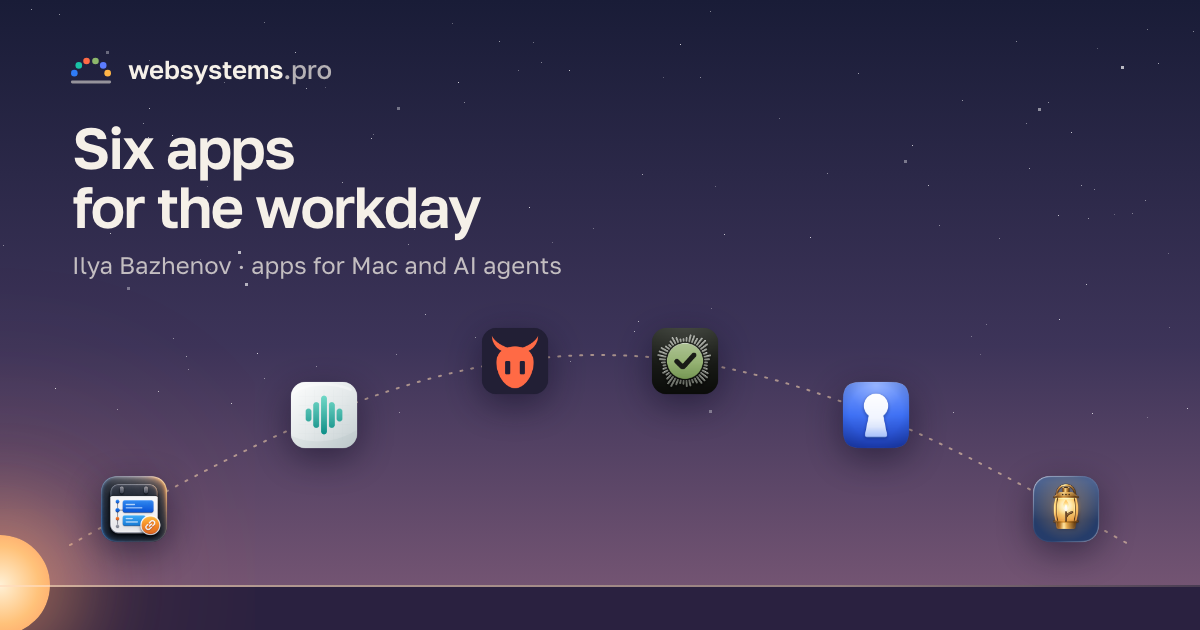
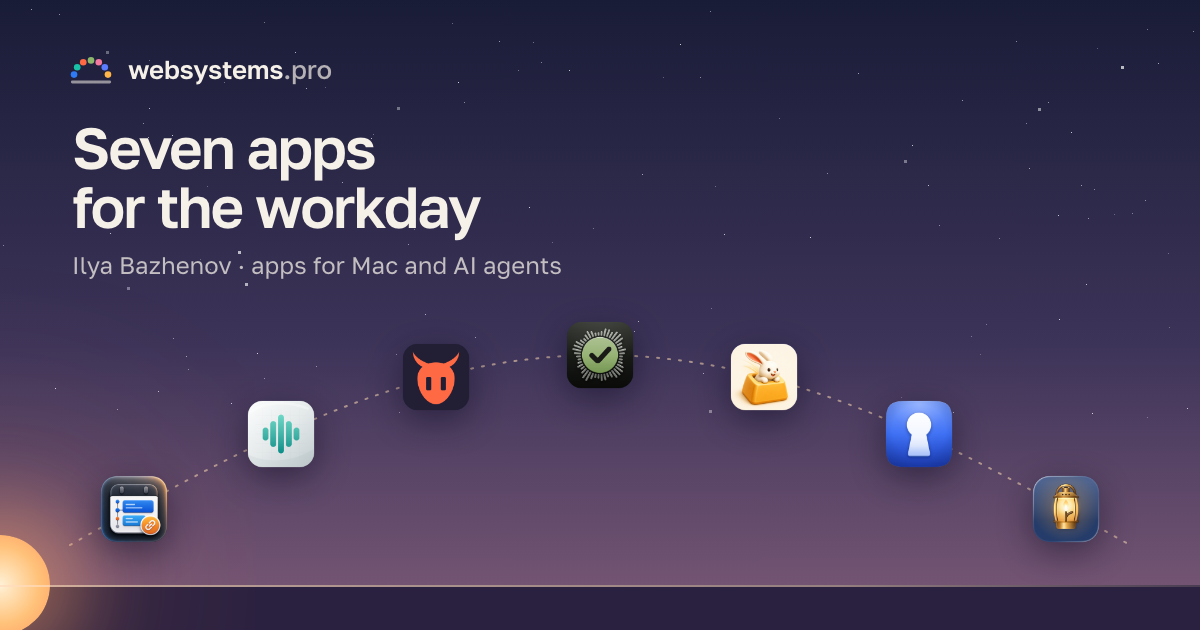
Hopkey — седьмое приложение: глава «15:20», точка на дуге дня и в логотипе
Hopkey встал между Walkship и Seatkey: палитра в строке меню (двойной ⌘ — ключ задачи
по ссылке, сниппеты, мьют). Глава с макетом палитры в духе остальных, Hopkey в «Все
проекты», «Семь приложений» в заголовке и мета-описаниях. Дуга дня на семь иконок,
на телефоне — равный шаг по дуге. Логотип, фавикон, touch-иконка и превью пересобраны
на семь точек и иконок (у Hopkey розовая точка). В блок про агента Hopkey не добавлен:
с ИИ-агентами он не работает.

Changed region(s): [[0.185, 0.5127, 0.8017, 0.754], [0.0925, 0.2111, 0.3083, 0.3016], [0.0617, 0.0905, 0.0925, 0.1206]]

diff --git a/index.html b/index.html
@@ -4,9 +4,9 @@
 <meta charset="utf-8">
 <meta name="viewport" content="width=device-width, initial-scale=1">
 <title>Приложения для рабочего дня — Илья Баженов</title>
-<meta name="description" content="Приложения для Mac и инструменты для работы с ИИ-агентами: OWA Widget, VoiceGrep, ImpAgent, Walkship, Seatkey и Routekeeper.">
+<meta name="description" content="Приложения для Mac и инструменты для работы с ИИ-агентами: OWA Widget, VoiceGrep, ImpAgent, Walkship, Hopkey, Seatkey и Routekeeper.">
 <meta property="og:title" content="Приложения для рабочего дня — Илья Баженов">
-<meta property="og:description" content="Приложения для Mac и инструменты для работы с ИИ-агентами: OWA Widget, VoiceGrep, ImpAgent, Walkship, Seatkey и Routekeeper.">
+<meta property="og:description" content="Приложения для Mac и инструменты для работы с ИИ-агентами: OWA Widget, VoiceGrep, ImpAgent, Walkship, Hopkey, Seatkey и Routekeeper.">
 <meta property="og:type" content="website">
 <meta property="og:url" content="https://websystems.pro/">
 <meta property="og:site_name" content="websystems.pro">
@@ -15,7 +15,7 @@
 <meta property="og:image" content="https://websystems.pro/assets/og.png">
 <meta property="og:image:width" content="1200">
 <meta property="og:image:height" content="630">
-<meta property="og:image:alt" content="Шесть приложений для рабочего дня: иконки OWA Widget, VoiceGrep, ImpAgent, Walkship, Seatkey и Routekeeper на дуге над горизонтом">
+<meta property="og:image:alt" content="Семь приложений для рабочего дня: иконки OWA Widget, VoiceGrep, ImpAgent, Walkship, Hopkey, Seatkey и Routekeeper на дуге над горизонтом">
 <meta name="twitter:card" content="summary_large_image">
 <link rel="canonical" href="https://websystems.pro/">
 <link rel="alternate" hreflang="ru" href="https://websystems.pro/">
@@ -48,12 +48,13 @@
     <a class="logo" href="#top" aria-label="websystems.pro — в начало">
       <svg viewBox="0 0 32 32" fill="none" aria-hidden="true">
         <path class="hz" d="M3 25h26" stroke-width="2" stroke-linecap="round"/>
-        <circle style="--i:0" cx="4.4" cy="18.9" r="2.3" fill="#2f7bf6"/>
-        <circle style="--i:1" cx="7.5" cy="13.5" r="2.3" fill="#19c2a6"/>
-        <circle style="--i:2" cx="12.9" cy="10.4" r="2.3" fill="#ff6a45"/>
-        <circle style="--i:3" cx="19.1" cy="10.4" r="2.3" fill="#8db86b"/>
-        <circle style="--i:4" cx="24.5" cy="13.5" r="2.3" fill="#5b7cff"/>
-        <circle style="--i:5" cx="27.6" cy="18.9" r="2.3" fill="#ffb547"/>
+        <circle style="--i:0" cx="4.2" cy="19.9" r="2.3" fill="#2f7bf6"/>
+        <circle style="--i:1" cx="6.4" cy="14.8" r="2.3" fill="#19c2a6"/>
+        <circle style="--i:2" cx="10.6" cy="11.3" r="2.3" fill="#ff6a45"/>
+        <circle style="--i:3" cx="16.0" cy="10.0" r="2.3" fill="#8db86b"/>
+        <circle style="--i:4" cx="21.4" cy="11.3" r="2.3" fill="#f27aa0"/>
+        <circle style="--i:5" cx="25.6" cy="14.8" r="2.3" fill="#5b7cff"/>
+        <circle style="--i:6" cx="27.8" cy="19.9" r="2.3" fill="#ffb547"/>
       </svg>
     </a>
     <span class="clock" aria-hidden="true">
@@ -74,8 +75,8 @@
   <section class="hero" data-time="07:40" data-sky="#191c37,#7d5a77" data-sky-dark="#141630,#4c3650" data-ink="light" data-stars="0.7" data-phase="утро">
     <div class="wrap">
       <div class="eyebrow">Илья Баженов</div>
-      <h1>Шесть приложений<br>для рабочего дня</h1>
-      <p class="lead">Я делаю приложения для Mac и инструменты для работы с ИИ-агентами. Здесь шесть из них, в том порядке, в каком они пригождаются за день.</p>
+      <h1>Семь приложений<br>для рабочего дня</h1>
+      <p class="lead">Я делаю приложения для Mac и инструменты для работы с ИИ-агентами. Здесь семь из них, в том порядке, в каком они пригождаются за день.</p>
     </div>
     <div class="hero-glow" aria-hidden="true"></div>
     <div class="wrap arc-wrap">
@@ -84,10 +85,11 @@
         <div class="sun" aria-hidden="true"></div>
         <div class="horizon" aria-hidden="true"></div>
         <a class="pt" href="#owawidget" style="--x:8;--y:31"><img src="assets/icons/owawidget.png" alt="OWA Widget"><span class="lbl"><b>OWA Widget</b>09:48</span></a>
-        <a class="pt" href="#voicegrep" style="--x:25;--y:66"><img src="assets/icons/voicegrep.png" alt="VoiceGrep"><span class="lbl"><b>VoiceGrep</b>10:47</span></a>
-        <a class="pt" href="#impagent" style="--x:42;--y:86"><img src="assets/icons/impagent.png" alt="ImpAgent"><span class="lbl"><b>ImpAgent</b>11:30</span></a>
-        <a class="pt" href="#walkship" style="--x:58;--y:86"><img src="assets/icons/walkship.png" alt="Walkship"><span class="lbl"><b>Walkship</b>13:10</span></a>
-        <a class="pt" href="#seatkey" style="--x:75;--y:66"><img src="assets/icons/seatkey.png" alt="Seatkey"><span class="lbl"><b>Seatkey</b>17:20</span></a>
+        <a class="pt" href="#voicegrep" style="--x:22;--y:60"><img src="assets/icons/voicegrep.png" alt="VoiceGrep"><span class="lbl"><b>VoiceGrep</b>10:47</span></a>
+        <a class="pt" href="#impagent" style="--x:36;--y:81"><img src="assets/icons/impagent.png" alt="ImpAgent"><span class="lbl"><b>ImpAgent</b>11:30</span></a>
+        <a class="pt" href="#walkship" style="--x:50;--y:88"><img src="assets/icons/walkship.png" alt="Walkship"><span class="lbl"><b>Walkship</b>13:10</span></a>
+        <a class="pt" href="#hopkey" style="--x:64;--y:81"><img src="assets/icons/hopkey.png" alt="Hopkey"><span class="lbl"><b>Hopkey</b>15:20</span></a>
+        <a class="pt" href="#seatkey" style="--x:78;--y:60"><img src="assets/icons/seatkey.png" alt="Seatkey"><span class="lbl"><b>Seatkey</b>17:20</span></a>
         <a class="pt" href="#routekeeper" style="--x:92;--y:31"><img src="assets/icons/routekeeper.png" alt="Routekeeper"><span class="lbl"><b>Routekeeper</b>21:30</span></a>
       </div>
     </div>
@@ -237,9 +239,42 @@
     </div>
   </section>
 
+  <!-- 15:20 — Hopkey -->
+  <section class="ch" id="hopkey" data-time="15:20" data-sky="#f2e8d2,#f8f2e5" data-sky-dark="#1e1a13,#241f17" data-ink="dark" data-phase="день" style="--accent:#c97c00">
+    <div class="wrap ch-grid">
+      <div class="ch-text rv">
+        <div class="ch-time">15:20</div>
+        <div class="ch-app">
+          <img src="assets/icons/hopkey.png" alt="" width="52" height="52">
+          <div><b>Hopkey</b><span>macOS 13+ · бесплатно · open source</span></div>
+        </div>
+        <h2>Двойной ⌘ — и&nbsp;всё мелкое уже под рукой.</h2>
+        <p class="story">Палитра в строке меню: двойной правый ⌘ и одна буква. Номер задачи из чата открывается ссылкой — Jira, GitHub, GitLab или свой шаблон. Ссылка на комнату или шаблонный ответ вставляются цифрой, а микрофон выключается для всей системы перед звонком. Всё локально, без аккаунта, и в русской раскладке тоже.</p>
+        <div class="ch-links">
+          <a class="go" href="https://ilyabazhenov.github.io/Hopkey/" target="_blank">Сайт проекта <svg viewBox="0 0 16 16" fill="none" stroke="currentColor" stroke-width="1.8"><path d="M5 11l6-6M6 5h5v5"/></svg></a>
+          <a class="sub" href="https://github.com/ilyabazhenov/Hopkey/releases/latest" target="_blank">Скачать</a>
+        </div>
+      </div>
+      <div class="ch-visual rv">
+        <div class="v hk" aria-hidden="true">
+          <div class="hk-msg"><span class="hk-av">А</span><p><b>Аня</b>Глянь <span class="key">PROJ-4821</span>, там опять падает оплата</p></div>
+          <div class="hk-pal step" style="--d:.15s">
+            <div class="hk-q"><kbd>⌘</kbd><kbd>⌘</kbd><span>Поиск: приложения, команды, калькулятор…</span></div>
+            <div class="hk-sec">Переключатели</div>
+            <div class="hk-tiles"><span class="mute">Микрофон<small>выкл</small><kbd>M</kbd></span><span>Звук<small>AirPods · 62%</small><kbd>A</kbd></span><span>Не спать<small>выкл</small><kbd>K</kbd></span></div>
+            <div class="hk-sec">Ключи и сниппеты</div>
+            <div class="hk-row"><span>Открыть ссылку по ключу</span><kbd>Q</kbd></div>
+            <div class="hk-chips"><span><i style="--c:#13968a">1</i>Комната созвона</span><span><i style="--c:#7b61d9">2</i>«Посмотрю после обеда»</span></div>
+          </div>
+          <div class="hk-note step" style="--d:.55s"><img src="assets/icons/hopkey.png" alt=""><span><b>PROJ-4821 <em>сейчас</em></b>Нажмите, чтобы открыть ссылку</span></div>
+        </div>
+      </div>
+    </div>
+  </section>
+
   <!-- 17:20 — Seatkey -->
   <section class="ch" id="seatkey" data-time="17:20" data-sky="#f3d9b4,#eec393" data-sky-dark="#291e14,#32241a" data-ink="dark" data-phase="вечер" style="--accent:#3550d8">
-    <div class="wrap ch-grid">
+    <div class="wrap ch-grid flip">
       <div class="ch-text rv">
         <div class="ch-time">17:20</div>
         <div class="ch-app">
@@ -287,7 +322,7 @@
 
   <!-- 21:30 — Routekeeper -->
   <section class="ch" id="routekeeper" data-time="21:30" data-sky="#121834,#0a0f1f" data-ink="light" data-stars="0.85" data-phase="ночь" style="--accent:#ffb547">
-    <div class="wrap ch-grid flip">
+    <div class="wrap ch-grid">
       <div class="ch-text rv">
         <div class="ch-time">21:30</div>
         <div class="ch-app">
@@ -380,6 +415,7 @@
           <a href="https://voicegrep.com/" target="_blank"><img src="assets/icons/voicegrep.png" alt=""><span><b>VoiceGrep</b><span>расшифровка звонков на Mac</span></span></a>
           <a href="https://ilyabazhenov.github.io/imp-agent-crossplatform-releases/" target="_blank"><img src="assets/icons/impagent.png" alt=""><span><b>ImpAgent</b><span>агент для рабочих задач</span></span></a>
           <a href="https://walkship.app/ru/" target="_blank"><img src="assets/icons/walkship.png" alt=""><span><b>Walkship</b><span>голосовой партнёр для кода</span></span></a>
+          <a href="https://ilyabazhenov.github.io/Hopkey/" target="_blank"><img src="assets/icons/hopkey.png" alt=""><span><b>Hopkey</b><span>палитра в строке меню</span></span></a>
           <a href="https://seatkey.dev/" target="_blank"><img src="assets/icons/seatkey.png" alt=""><span><b>Seatkey</b><span>подписка как OpenAI API</span></span></a>
           <a href="https://getroutekeeper.app/" target="_blank"><img src="assets/icons/routekeeper.png" alt=""><span><b>Routekeeper</b><span>маршруты для приложений</span></span></a>
         </nav>

diff --git a/en/index.html b/en/index.html
@@ -4,9 +4,9 @@
 <meta charset="utf-8">
 <meta name="viewport" content="width=device-width, initial-scale=1">
 <title>Apps for the workday — Ilya Bazhenov</title>
-<meta name="description" content="Mac apps and tools for working with AI agents: OWA Widget, VoiceGrep, ImpAgent, Walkship, Seatkey and Routekeeper.">
+<meta name="description" content="Mac apps and tools for working with AI agents: OWA Widget, VoiceGrep, ImpAgent, Walkship, Hopkey, Seatkey and Routekeeper.">
 <meta property="og:title" content="Apps for the workday — Ilya Bazhenov">
-<meta property="og:description" content="Mac apps and tools for working with AI agents: OWA Widget, VoiceGrep, ImpAgent, Walkship, Seatkey and Routekeeper.">
+<meta property="og:description" content="Mac apps and tools for working with AI agents: OWA Widget, VoiceGrep, ImpAgent, Walkship, Hopkey, Seatkey and Routekeeper.">
 <meta property="og:type" content="website">
 <meta property="og:url" content="https://websystems.pro/en/">
 <meta property="og:site_name" content="websystems.pro">
@@ -15,7 +15,7 @@
 <meta property="og:image" content="https://websystems.pro/assets/og-en.png">
 <meta property="og:image:width" content="1200">
 <meta property="og:image:height" content="630">
-<meta property="og:image:alt" content="Six apps for the workday: OWA Widget, VoiceGrep, ImpAgent, Walkship, Seatkey and Routekeeper icons on an arc above the horizon">
+<meta property="og:image:alt" content="Seven apps for the workday: OWA Widget, VoiceGrep, ImpAgent, Walkship, Hopkey, Seatkey and Routekeeper icons on an arc above the horizon">
 <meta name="twitter:card" content="summary_large_image">
 <link rel="canonical" href="https://websystems.pro/en/">
 <link rel="alternate" hreflang="ru" href="https://websystems.pro/">
@@ -48,12 +48,13 @@
     <a class="logo" href="#top" aria-label="websystems.pro — back to top">
       <svg viewBox="0 0 32 32" fill="none" aria-hidden="true">
         <path class="hz" d="M3 25h26" stroke-width="2" stroke-linecap="round"/>
-        <circle style="--i:0" cx="4.4" cy="18.9" r="2.3" fill="#2f7bf6"/>
-        <circle style="--i:1" cx="7.5" cy="13.5" r="2.3" fill="#19c2a6"/>
-        <circle style="--i:2" cx="12.9" cy="10.4" r="2.3" fill="#ff6a45"/>
-        <circle style="--i:3" cx="19.1" cy="10.4" r="2.3" fill="#8db86b"/>
-        <circle style="--i:4" cx="24.5" cy="13.5" r="2.3" fill="#5b7cff"/>
-        <circle style="--i:5" cx="27.6" cy="18.9" r="2.3" fill="#ffb547"/>
+        <circle style="--i:0" cx="4.2" cy="19.9" r="2.3" fill="#2f7bf6"/>
+        <circle style="--i:1" cx="6.4" cy="14.8" r="2.3" fill="#19c2a6"/>
+        <circle style="--i:2" cx="10.6" cy="11.3" r="2.3" fill="#ff6a45"/>
+        <circle style="--i:3" cx="16.0" cy="10.0" r="2.3" fill="#8db86b"/>
+        <circle style="--i:4" cx="21.4" cy="11.3" r="2.3" fill="#f27aa0"/>
+        <circle style="--i:5" cx="25.6" cy="14.8" r="2.3" fill="#5b7cff"/>
+        <circle style="--i:6" cx="27.8" cy="19.9" r="2.3" fill="#ffb547"/>
       </svg>
     </a>
     <span class="clock" aria-hidden="true">
@@ -74,8 +75,8 @@
   <section class="hero" data-time="07:40" data-sky="#191c37,#7d5a77" data-sky-dark="#141630,#4c3650" data-ink="light" data-stars="0.7" data-phase="morning">
     <div class="wrap">
       <div class="eyebrow">Ilya Bazhenov</div>
-      <h1>Six apps<br>for the workday</h1>
-      <p class="lead">I make Mac apps and tools for working with AI agents. Here are six of them, in the order they come in handy during the day.</p>
+      <h1>Seven apps<br>for the workday</h1>
+      <p class="lead">I make Mac apps and tools for working with AI agents. Here are seven of them, in the order they come in handy during the day.</p>
     </div>
     <div class="hero-glow" aria-hidden="true"></div>
     <div class="wrap arc-wrap">
@@ -84,10 +85,11 @@
         <div class="sun" aria-hidden="true"></div>
         <div class="horizon" aria-hidden="true"></div>
         <a class="pt" href="#owawidget" style="--x:8;--y:31"><img src="../assets/icons/owawidget.png" alt="OWA Widget"><span class="lbl"><b>OWA Widget</b>09:48</span></a>
-        <a class="pt" href="#voicegrep" style="--x:25;--y:66"><img src="../assets/icons/voicegrep.png" alt="VoiceGrep"><span class="lbl"><b>VoiceGrep</b>10:47</span></a>
-        <a class="pt" href="#impagent" style="--x:42;--y:86"><img src="../assets/icons/impagent.png" alt="ImpAgent"><span class="lbl"><b>ImpAgent</b>11:30</span></a>
-        <a class="pt" href="#walkship" style="--x:58;--y:86"><img src="../assets/icons/walkship.png" alt="Walkship"><span class="lbl"><b>Walkship</b>13:10</span></a>
-        <a class="pt" href="#seatkey" style="--x:75;--y:66"><img src="../assets/icons/seatkey.png" alt="Seatkey"><span class="lbl"><b>Seatkey</b>17:20</span></a>
+        <a class="pt" href="#voicegrep" style="--x:22;--y:60"><img src="../assets/icons/voicegrep.png" alt="VoiceGrep"><span class="lbl"><b>VoiceGrep</b>10:47</span></a>
+        <a class="pt" href="#impagent" style="--x:36;--y:81"><img src="../assets/icons/impagent.png" alt="ImpAgent"><span class="lbl"><b>ImpAgent</b>11:30</span></a>
+        <a class="pt" href="#walkship" style="--x:50;--y:88"><img src="../assets/icons/walkship.png" alt="Walkship"><span class="lbl"><b>Walkship</b>13:10</span></a>
+        <a class="pt" href="#hopkey" style="--x:64;--y:81"><img src="../assets/icons/hopkey.png" alt="Hopkey"><span class="lbl"><b>Hopkey</b>15:20</span></a>
+        <a class="pt" href="#seatkey" style="--x:78;--y:60"><img src="../assets/icons/seatkey.png" alt="Seatkey"><span class="lbl"><b>Seatkey</b>17:20</span></a>
         <a class="pt" href="#routekeeper" style="--x:92;--y:31"><img src="../assets/icons/routekeeper.png" alt="Routekeeper"><span class="lbl"><b>Routekeeper</b>21:30</span></a>
       </div>
     </div>
@@ -237,9 +239,42 @@
     </div>
   </section>
 
+  <!-- 15:20 — Hopkey -->
+  <section class="ch" id="hopkey" data-time="15:20" data-sky="#f2e8d2,#f8f2e5" data-sky-dark="#1e1a13,#241f17" data-ink="dark" data-phase="afternoon" style="--accent:#c97c00">
+    <div class="wrap ch-grid">
+      <div class="ch-text rv">
+        <div class="ch-time">15:20</div>
+        <div class="ch-app">
+          <img src="../assets/icons/hopkey.png" alt="" width="52" height="52">
+          <div><b>Hopkey</b><span>macOS 13+ · free · open source</span></div>
+        </div>
+        <h2>Double-tap ⌘. The small stuff, at&nbsp;hand.</h2>
+        <p class="story">A palette in the menu bar: double-tap the right ⌘ and press one letter. An issue number from chat opens as a link, whether it’s Jira, GitHub, GitLab or your own pattern. A meeting link or a canned reply goes in with a digit, and the mic mutes system-wide before a call. Everything stays local, with no account, and it works in any keyboard layout.</p>
+        <div class="ch-links">
+          <a class="go" href="https://ilyabazhenov.github.io/Hopkey/en/" target="_blank">Project site <svg viewBox="0 0 16 16" fill="none" stroke="currentColor" stroke-width="1.8"><path d="M5 11l6-6M6 5h5v5"/></svg></a>
+          <a class="sub" href="https://github.com/ilyabazhenov/Hopkey/releases/latest" target="_blank">Download</a>
+        </div>
+      </div>
+      <div class="ch-visual rv">
+        <div class="v hk" aria-hidden="true">
+          <div class="hk-msg"><span class="hk-av">A</span><p><b>Anna</b>Can you check <span class="key">PROJ-4821</span>? Payments are failing again</p></div>
+          <div class="hk-pal step" style="--d:.15s">
+            <div class="hk-q"><kbd>⌘</kbd><kbd>⌘</kbd><span>Search apps, commands, calculator…</span></div>
+            <div class="hk-sec">Toggles</div>
+            <div class="hk-tiles"><span class="mute">Microphone<small>off</small><kbd>M</kbd></span><span>Sound<small>AirPods · 62%</small><kbd>A</kbd></span><span>Keep awake<small>off</small><kbd>K</kbd></span></div>
+            <div class="hk-sec">Keys and snippets</div>
+            <div class="hk-row"><span>Open link by key</span><kbd>Q</kbd></div>
+            <div class="hk-chips"><span><i style="--c:#13968a">1</i>Meeting room</span><span><i style="--c:#7b61d9">2</i>“After lunch”</span></div>
+          </div>
+          <div class="hk-note step" style="--d:.55s"><img src="../assets/icons/hopkey.png" alt=""><span><b>PROJ-4821 <em>now</em></b>Click to open the link</span></div>
+        </div>
+      </div>
+    </div>
+  </section>
+
   <!-- 17:20 — Seatkey -->
   <section class="ch" id="seatkey" data-time="17:20" data-sky="#f3d9b4,#eec393" data-sky-dark="#291e14,#32241a" data-ink="dark" data-phase="evening" style="--accent:#3550d8">
-    <div class="wrap ch-grid">
+    <div class="wrap ch-grid flip">
       <div class="ch-text rv">
         <div class="ch-time">17:20</div>
         <div class="ch-app">
@@ -287,7 +322,7 @@
 
   <!-- 21:30 — Routekeeper -->
   <section class="ch" id="routekeeper" data-time="21:30" data-sky="#121834,#0a0f1f" data-ink="light" data-stars="0.85" data-phase="night" style="--accent:#ffb547">
-    <div class="wrap ch-grid flip">
+    <div class="wrap ch-grid">
       <div class="ch-text rv">
         <div class="ch-time">21:30</div>
         <div class="ch-app">
@@ -380,6 +415,7 @@
           <a href="https://voicegrep.com/en/" target="_blank"><img src="../assets/icons/voicegrep.png" alt=""><span><b>VoiceGrep</b><span>call transcripts on your Mac</span></span></a>
           <a href="https://ilyabazhenov.github.io/imp-agent-crossplatform-releases/" target="_blank" hreflang="ru"><img src="../assets/icons/impagent.png" alt=""><span><b>ImpAgent</b><span>an agent for work tasks</span></span></a>
           <a href="https://walkship.app/" target="_blank"><img src="../assets/icons/walkship.png" alt=""><span><b>Walkship</b><span>a voice partner for code</span></span></a>
+          <a href="https://ilyabazhenov.github.io/Hopkey/en/" target="_blank"><img src="../assets/icons/hopkey.png" alt=""><span><b>Hopkey</b><span>a menu bar palette for the workday</span></span></a>
           <a href="https://seatkey.dev/" target="_blank" hreflang="ru"><img src="../assets/icons/seatkey.png" alt=""><span><b>Seatkey</b><span>your subscription as an OpenAI API</span></span></a>
           <a href="https://getroutekeeper.app/en/" target="_blank"><img src="../assets/icons/routekeeper.png" alt=""><span><b>Routekeeper</b><span>a route for every app</span></span></a>
         </nav>

diff --git a/assets/site.css b/assets/site.css
@@ -296,6 +296,33 @@ h1 {
 .seat-term .o { color: #9db3ff; }
 .seat-term .d { color: #7d8290; }
 
+/* ----- Hopkey ----- */
+.hk { background: #fbf7ef; color: #1e1a14; padding: 18px; display: grid; gap: 12px; }
+.hk kbd { font: 500 11px var(--mono); padding: 2px 6px; border-radius: 6px; background: #fffaf0; border: 1px solid rgba(30, 26, 20, 0.16); border-bottom-width: 2px; color: #4a443a; }
+.hk-msg { display: grid; grid-template-columns: 30px 1fr; gap: 10px; align-items: start; padding: 12px 14px; border-radius: 14px; background: #fff; box-shadow: 0 0 0 1px rgba(30, 26, 20, 0.08); }
+.hk-av { width: 30px; height: 30px; border-radius: 9px; display: grid; place-items: center; font-weight: 600; font-size: 13px; color: #fff; background: #7b61d9; }
+.hk-msg p { margin: 0; }
+.hk-msg b { display: block; font-size: 13px; }
+.hk .key { font: 500 12.5px var(--mono); padding: 1px 5px; border-radius: 5px; background: rgba(245, 166, 35, 0.2); color: #9a5b00; }
+.hk-pal { padding: 10px; border-radius: 16px; background: rgba(255, 255, 255, 0.94); box-shadow: 0 24px 50px -22px rgba(70, 48, 10, 0.45), 0 0 0 1px rgba(30, 26, 20, 0.1); }
+.hk-q { display: flex; align-items: center; gap: 6px; padding: 2px 4px 10px; border-bottom: 1px solid rgba(30, 26, 20, 0.08); color: #9a9182; font-size: 13px; }
+.hk-q span { margin-left: 4px; overflow: hidden; text-overflow: ellipsis; white-space: nowrap; }
+.hk-sec { padding: 10px 4px 5px; font-size: 10.5px; font-weight: 600; letter-spacing: 0.05em; text-transform: uppercase; color: #9a9182; }
+.hk-tiles { display: grid; grid-template-columns: repeat(3, minmax(0, 1fr)); gap: 6px; }
+.hk-tiles span { position: relative; padding: 8px 9px; border-radius: 11px; border: 1px solid rgba(30, 26, 20, 0.1); font-size: 13px; font-weight: 500; white-space: nowrap; overflow: hidden; text-overflow: ellipsis; }
+.hk-tiles small { display: block; font-size: 11.5px; font-weight: 400; color: #9a9182; }
+.hk-tiles kbd { position: absolute; right: 6px; top: 6px; font-size: 9.5px; padding: 1px 4px; }
+.hk-tiles .mute { background: rgba(229, 72, 77, 0.1); border-color: rgba(229, 72, 77, 0.4); }
+.hk-tiles .mute small { color: #d8434a; }
+.hk-row { display: flex; align-items: center; justify-content: space-between; gap: 10px; padding: 7px 8px; border-radius: 10px; font-size: 13.5px; background: rgba(245, 166, 35, 0.24); }
+.hk-chips { display: flex; flex-wrap: wrap; gap: 6px; padding: 6px 2px 2px; }
+.hk-chips span { display: inline-flex; align-items: center; gap: 7px; padding: 4px 10px 4px 4px; border-radius: 9px; border: 1px solid rgba(30, 26, 20, 0.1); font-size: 12.5px; }
+.hk-chips i { width: 20px; font: 600 11px/20px var(--mono); font-style: normal; text-align: center; border-radius: 6px; color: #fff; background: var(--c); }
+.hk-note { display: grid; grid-template-columns: 34px 1fr; gap: 10px; align-items: center; padding: 10px 12px; border-radius: 14px; background: #fff; box-shadow: 0 14px 30px -16px rgba(70, 48, 10, 0.4), 0 0 0 1px rgba(30, 26, 20, 0.08); font-size: 13px; }
+.hk-note img { width: 34px; height: 34px; }
+.hk-note b { display: flex; justify-content: space-between; font-size: 13.5px; }
+.hk-note em { font: 400 11px var(--sans); font-style: normal; color: #9a9182; }
+
 /* ----- Routekeeper ----- */
 .rk { background: #0f1530; color: #f3ecdf; box-shadow: 0 40px 90px -30px rgba(0, 0, 0, 0.7), 0 0 0 1px rgba(255, 181, 71, 0.16), 0 0 120px -20px rgba(255, 181, 71, 0.25); }
 .rk-top { display: flex; align-items: center; gap: 10px; padding: 15px 18px; border-bottom: 1px solid rgba(255, 255, 255, 0.07); }
@@ -463,6 +490,17 @@ footer .wrap { display: flex; justify-content: space-between; gap: 16px; flex-wr
 :root[data-theme="dark"] .seat-map .small { fill: #a39886; }
 :root[data-theme="dark"] .seat-term { background: #121317; box-shadow: 0 0 0 1px rgba(255, 255, 255, 0.06); }
 
+:root[data-theme="dark"] .hk { background: #1f1b15; color: #f1ebe0; box-shadow: 0 40px 80px -40px rgba(0, 0, 0, 0.7), 0 0 0 1px rgba(255, 255, 255, 0.07); }
+:root[data-theme="dark"] :is(.hk-msg, .hk-note) { background: #2a251d; box-shadow: 0 0 0 1px rgba(255, 245, 225, 0.08); }
+:root[data-theme="dark"] .hk-pal { background: #29241c; box-shadow: 0 24px 50px -22px rgba(0, 0, 0, 0.7), 0 0 0 1px rgba(255, 245, 225, 0.1); }
+:root[data-theme="dark"] :is(.hk-q, .hk-sec, .hk-tiles small, .hk-note em) { color: #a39886; }
+:root[data-theme="dark"] .hk-q { border-bottom-color: rgba(255, 245, 225, 0.08); }
+:root[data-theme="dark"] :is(.hk-tiles span, .hk-chips span) { border-color: rgba(255, 245, 225, 0.12); }
+:root[data-theme="dark"] .hk kbd { background: #332d24; border-color: rgba(255, 245, 225, 0.16); color: #e8e0d2; }
+:root[data-theme="dark"] .hk .key { color: #ffc46b; background: rgba(255, 181, 71, 0.16); }
+:root[data-theme="dark"] .hk-row { background: rgba(255, 181, 71, 0.18); }
+:root[data-theme="dark"] .hk-tiles .mute small { color: #ff7f84; }
+
 /* ---------- responsive ---------- */
 @media (max-width: 1020px) {
   .ch-grid { grid-template-columns: minmax(0, 1fr); gap: 48px; }
@@ -486,19 +524,21 @@ footer .wrap { display: flex; justify-content: space-between; gap: 16px; flex-wr
   /* иконки с равным шагом по длине дуги, подписи внутри купола, у верхних — над иконкой */
   .pt { left: calc(var(--mx) * 1%); bottom: calc(var(--my) * 1%); }
   .pt:nth-of-type(1) { --mx: 7.4; --my: 29.5; }
-  .pt:nth-of-type(2) { --mx: 20.1; --my: 57; }
-  .pt:nth-of-type(3) { --mx: 36.9; --my: 81.7; }
-  .pt:nth-of-type(4) { --mx: 63.1; --my: 81.7; }
-  .pt:nth-of-type(5) { --mx: 79.9; --my: 57; }
-  .pt:nth-of-type(6) { --mx: 92.6; --my: 29.5; }
-  .pt img { width: 50px; height: 50px; }
+  .pt:nth-of-type(2) { --mx: 17.8; --my: 52.4; }
+  .pt:nth-of-type(3) { --mx: 30.4; --my: 74.1; }
+  .pt:nth-of-type(4) { --mx: 50; --my: 88; }
+  .pt:nth-of-type(5) { --mx: 69.6; --my: 74.1; }
+  .pt:nth-of-type(6) { --mx: 82.2; --my: 52.4; }
+  .pt:nth-of-type(7) { --mx: 92.6; --my: 29.5; }
+  .pt img { width: 46px; height: 46px; }
   .pt .lbl { position: absolute; top: 50%; margin: 0; font-size: 11.5px; line-height: 1.35; }
   .pt:nth-of-type(-n+2) .lbl { left: 100%; padding-left: 10px; transform: translateY(-50%); text-align: left; }
-  .pt:nth-of-type(n+5) .lbl { right: 100%; padding-right: 10px; transform: translateY(-50%); text-align: right; }
-  /* к вершине дуга поднимается выше иконок, поэтому подписи сдвинуты наружу */
-  .pt:nth-of-type(3) .lbl, .pt:nth-of-type(4) .lbl { top: auto; bottom: 100%; padding-bottom: 8px; }
+  .pt:nth-of-type(n+6) .lbl { right: 100%; padding-right: 10px; transform: translateY(-50%); text-align: right; }
+  /* к вершине дуга поднимается выше иконок, поэтому подписи над иконками: крайние сдвинуты наружу */
+  .pt:nth-of-type(n+3):nth-of-type(-n+5) .lbl { top: auto; bottom: 100%; padding-bottom: 8px; }
   .pt:nth-of-type(3) .lbl { right: 0; text-align: right; }
-  .pt:nth-of-type(4) .lbl { left: 0; text-align: left; }
+  .pt:nth-of-type(4) .lbl { left: 50%; transform: translateX(-50%); text-align: center; }
+  .pt:nth-of-type(5) .lbl { left: 0; text-align: left; }
   .sun { width: 70px; height: 70px; left: -24px; bottom: -35px; }
   .ch { padding: 96px 0 72px; min-height: auto; }
   .ln { grid-template-columns: 1fr; }
@@ -512,13 +552,11 @@ footer .wrap { display: flex; justify-content: space-between; gap: 16px; flex-wr
 }
 @media (max-width: 359px) {
   /* средние подписи иначе сходятся в центре купола */
-  .pt:nth-of-type(2) { --mx: 17; --my: 50.7; }
-  .pt:nth-of-type(5) { --mx: 83; --my: 50.7; }
-  .pt img { width: 44px; height: 44px; }
+  .pt img { width: 40px; height: 40px; }
   .pt .lbl { font-size: 10.5px; }
   .pt .lbl b { font-size: 12px; }
   .pt:nth-of-type(-n+2) .lbl { padding-left: 8px; }
-  .pt:nth-of-type(n+5) .lbl { padding-right: 8px; }
+  .pt:nth-of-type(n+6) .lbl { padding-right: 8px; }
   /* в попапе OWA кнопки переносятся под текст, иначе обрезаются */
   .owa-body { padding: 12px; }
   .owa-pop { padding: 10px; }

diff --git a/brand/og.html b/brand/og.html
@@ -33,16 +33,16 @@
   <div class="ground"></div>
   <div class="sun"></div>
   <div class="hz"></div>
-  <img src="../assets/icons/owawidget.png" style="left:96px;top:471px"><img src="../assets/icons/voicegrep.png" style="left:286px;top:377px"><img src="../assets/icons/impagent.png" style="left:477px;top:323px"><img src="../assets/icons/walkship.png" style="left:647px;top:323px"><img src="../assets/icons/seatkey.png" style="left:838px;top:377px"><img src="../assets/icons/routekeeper.png" style="left:1028px;top:471px">
+  <img src="../assets/icons/owawidget.png" style="left:96px;top:471px"><img src="../assets/icons/voicegrep.png" style="left:243px;top:396px"><img src="../assets/icons/impagent.png" style="left:398px;top:339px"><img src="../assets/icons/walkship.png" style="left:562px;top:317px"><img src="../assets/icons/hopkey.png" style="left:726px;top:339px"><img src="../assets/icons/seatkey.png" style="left:881px;top:396px"><img src="../assets/icons/routekeeper.png" style="left:1028px;top:471px">
   <div class="head">
-    <div class="brand"><svg viewBox="0 0 32 32" fill="none"><path d="M3 25h26" stroke="#f5f0e8" stroke-opacity=".55" stroke-width="2" stroke-linecap="round"/><circle cx="4.4" cy="18.9" r="2.3" fill="#2f7bf6"/><circle cx="7.5" cy="13.5" r="2.3" fill="#19c2a6"/><circle cx="12.9" cy="10.4" r="2.3" fill="#ff6a45"/><circle cx="19.1" cy="10.4" r="2.3" fill="#8db86b"/><circle cx="24.5" cy="13.5" r="2.3" fill="#5b7cff"/><circle cx="27.6" cy="18.9" r="2.3" fill="#ffb547"/></svg><b>websystems<span>.pro</span></b></div>
-    <h1>Шесть приложений<br>для рабочего дня</h1>
+    <div class="brand"><svg viewBox="0 0 32 32" fill="none"><path d="M3 25h26" stroke="#f5f0e8" stroke-opacity=".55" stroke-width="2" stroke-linecap="round"/><circle cx="4.2" cy="19.9" r="2.3" fill="#2f7bf6"/><circle cx="6.4" cy="14.8" r="2.3" fill="#19c2a6"/><circle cx="10.6" cy="11.3" r="2.3" fill="#ff6a45"/><circle cx="16.0" cy="10.0" r="2.3" fill="#8db86b"/><circle cx="21.4" cy="11.3" r="2.3" fill="#f27aa0"/><circle cx="25.6" cy="14.8" r="2.3" fill="#5b7cff"/><circle cx="27.8" cy="19.9" r="2.3" fill="#ffb547"/></svg><b>websystems<span>.pro</span></b></div>
+    <h1>Семь приложений<br>для рабочего дня</h1>
     <p>Илья Баженов · приложения для Mac и ИИ-агентов</p>
   </div>
   <script>
     if (location.search === '?en') {
       document.documentElement.lang = 'en';
-      document.querySelector('h1').innerHTML = 'Six apps<br>for the workday';
+      document.querySelector('h1').innerHTML = 'Seven apps<br>for the workday';
       document.querySelector('.head p').textContent = 'Ilya Bazhenov · apps for Mac and AI agents';
     }
   </script>

diff --git a/brand/touch-icon.html b/brand/touch-icon.html
@@ -7,4 +7,4 @@
   body { background: linear-gradient(180deg, #1b1f3c 0%, #3d3459 60%, #7d5a77 100%); display: grid; place-items: center; }
   svg { width: 132px; height: 132px; margin-top: 6px; }
 </style></head>
-<body><svg viewBox="0 0 32 32" fill="none"><path d="M3 25h26" stroke="#f5f0e8" stroke-opacity=".6" stroke-width="1.8" stroke-linecap="round"/><circle cx="4.4" cy="18.9" r="2.3" fill="#2f7bf6"/><circle cx="7.5" cy="13.5" r="2.3" fill="#19c2a6"/><circle cx="12.9" cy="10.4" r="2.3" fill="#ff6a45"/><circle cx="19.1" cy="10.4" r="2.3" fill="#8db86b"/><circle cx="24.5" cy="13.5" r="2.3" fill="#5b7cff"/><circle cx="27.6" cy="18.9" r="2.3" fill="#ffb547"/></svg></body></html>
+<body><svg viewBox="0 0 32 32" fill="none"><path d="M3 25h26" stroke="#f5f0e8" stroke-opacity=".6" stroke-width="1.8" stroke-linecap="round"/><circle cx="4.2" cy="19.9" r="2.3" fill="#2f7bf6"/><circle cx="6.4" cy="14.8" r="2.3" fill="#19c2a6"/><circle cx="10.6" cy="11.3" r="2.3" fill="#ff6a45"/><circle cx="16.0" cy="10.0" r="2.3" fill="#8db86b"/><circle cx="21.4" cy="11.3" r="2.3" fill="#f27aa0"/><circle cx="25.6" cy="14.8" r="2.3" fill="#5b7cff"/><circle cx="27.8" cy="19.9" r="2.3" fill="#ffb547"/></svg></body></html>

diff --git a/brand/favicon.html b/brand/favicon.html
@@ -6,4 +6,4 @@
   html, body { width: 64px; height: 64px; overflow: hidden; background: transparent; }
   svg { width: 64px; height: 64px; display: block; }
 </style></head>
-<body><svg viewBox="0 0 32 32" fill="none"><path d="M3 25h26" stroke="#8a8790" stroke-width="2.4" stroke-linecap="round"/><circle cx="4.4" cy="18.9" r="2.6" fill="#2f7bf6"/><circle cx="7.5" cy="13.5" r="2.6" fill="#19c2a6"/><circle cx="12.9" cy="10.4" r="2.6" fill="#ff6a45"/><circle cx="19.1" cy="10.4" r="2.6" fill="#8db86b"/><circle cx="24.5" cy="13.5" r="2.6" fill="#5b7cff"/><circle cx="27.6" cy="18.9" r="2.6" fill="#ffb547"/></svg></body></html>
+<body><svg viewBox="0 0 32 32" fill="none"><path d="M3 25h26" stroke="#8a8790" stroke-width="2.4" stroke-linecap="round"/><circle cx="4.2" cy="19.9" r="2.5" fill="#2f7bf6"/><circle cx="6.4" cy="14.8" r="2.5" fill="#19c2a6"/><circle cx="10.6" cy="11.3" r="2.5" fill="#ff6a45"/><circle cx="16.0" cy="10.0" r="2.5" fill="#8db86b"/><circle cx="21.4" cy="11.3" r="2.5" fill="#f27aa0"/><circle cx="25.6" cy="14.8" r="2.5" fill="#5b7cff"/><circle cx="27.8" cy="19.9" r="2.5" fill="#ffb547"/></svg></body></html>

diff --git a/README.md b/README.md
@@ -1,6 +1,6 @@
 # websystems.pro
 
-Сайт [websystems.pro](https://websystems.pro/): шесть приложений для Mac и инструменты для работы с ИИ-агентами, по порядку рабочего дня.
+Сайт [websystems.pro](https://websystems.pro/): семь приложений для Mac и инструменты для работы с ИИ-агентами, по порядку рабочего дня.
 
 Статика без сборки: русская версия в `index.html`, английская в `en/index.html`, общие стили и скрипт в `assets/site.css` и `assets/site.js`, иконки в `assets/icons/`. Тексты правятся в обоих файлах. Локально:
 
